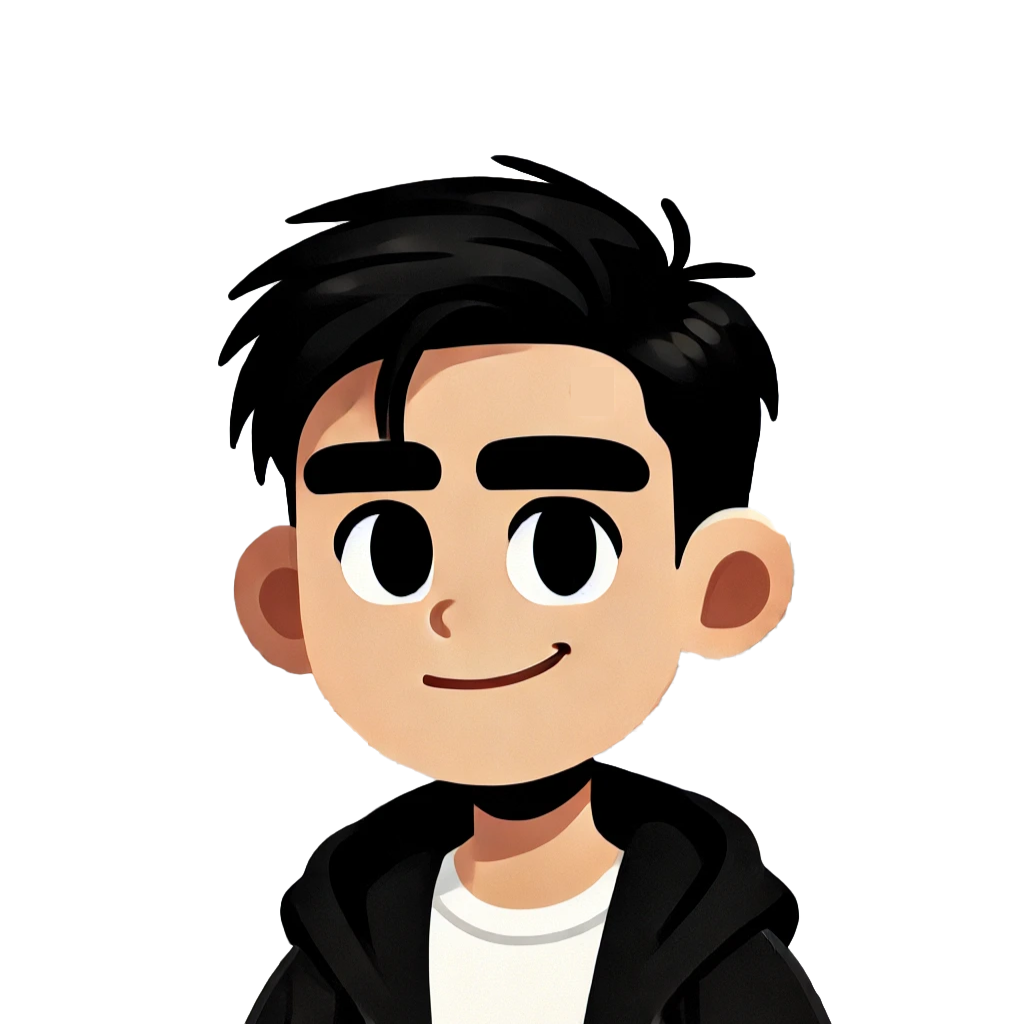
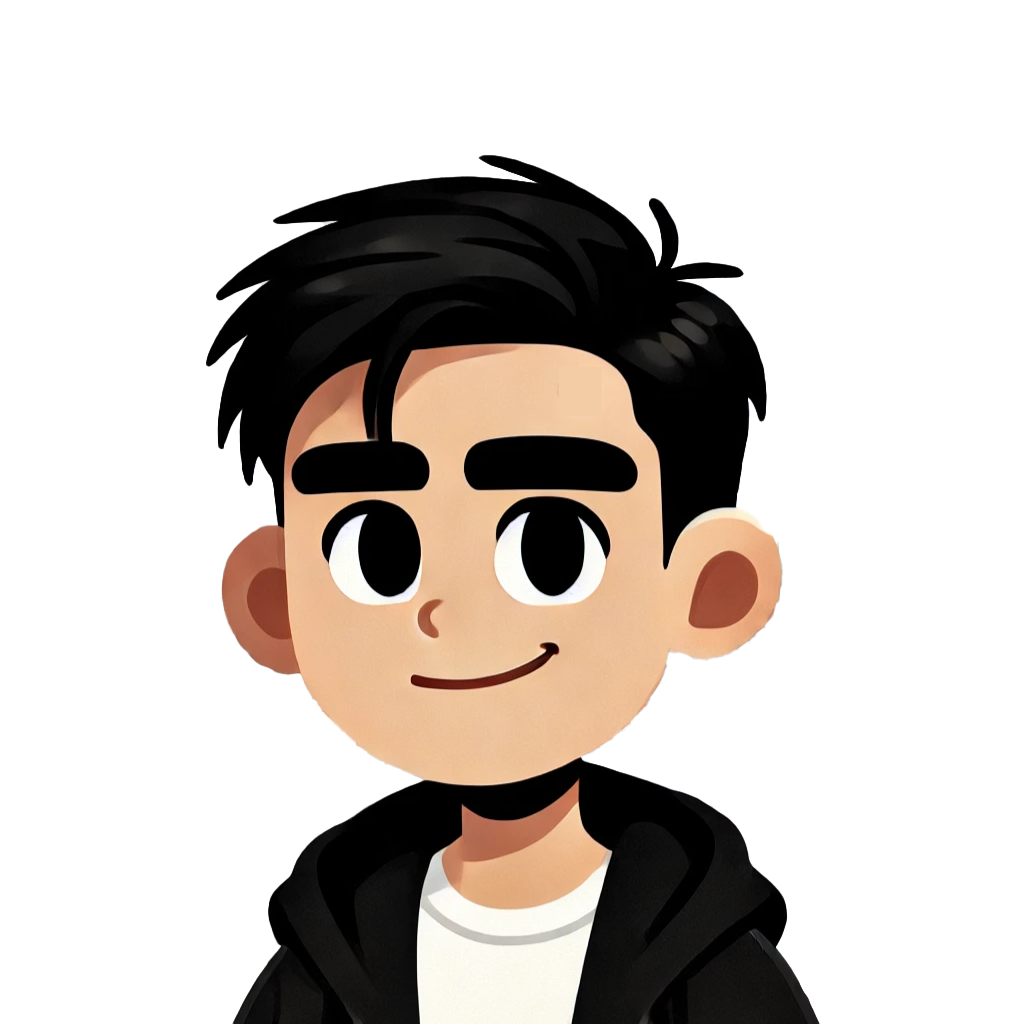
fix prportfolio page

diff --git a/src/app/components/heroSection.tsx b/src/app/components/heroSection.tsx
@@ -26,7 +26,7 @@ const HeroSection = () => {
           </div>
         </motion.div>
         <motion.div initial={{ opacity: 0, scale: 0.5 }} animate={{ opacity: 1, scale: 1 }} transition={{ duration: 0.5 }} className="col-span-4 place-self-center mt-4 lg:mt-0">
-          <div className="rounded-full bg-[#3e3e3e] w-[250px] h-[250px] lg:w-[400px] lg:h-[400px] relative">
+          <div className="rounded-full bg-gradient-to-br from-primary-200/50 to-secondary-400/50 w-[250px] h-[250px] lg:w-[400px] lg:h-[400px] relative">
             <Image src="/images/hero-image.png" alt="hero image" className="absolute transform -translate-x-1/2 -translate-y-1/2 top-1/2 left-1/2" width={340} height={340} />
           </div>
         </motion.div>

diff --git a/tailwind.config.ts b/tailwind.config.ts
@@ -12,8 +12,10 @@ const config = {
     },
     colors: {
       ...colors,
-      primary: colors.purple,
-      secondary: colors.pink,
+      primary: colors.emerald,
+      secondary: colors.teal,
+      "soccer-primary": colors.emerald,
+      "soccer-secondary": colors.teal,
     },
     container: {
       center: true,
